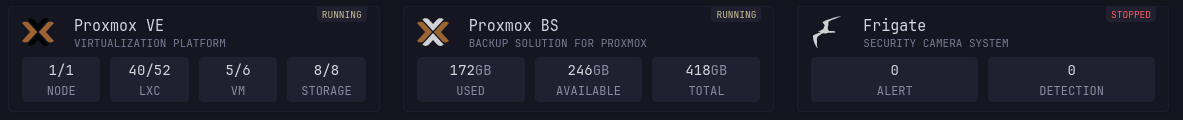
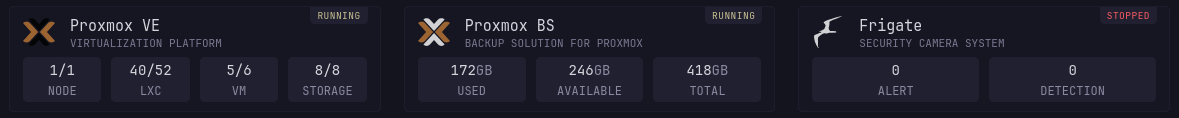
(stats-cards): improve readability of the status badge

diff --git a/styles/stat-grid-style.css b/styles/stat-grid-style.css
@@ -32,8 +32,9 @@
     top: 0;
     right: 12px;
     background: hsla(var(--bghs), calc(var(--scheme) (var(--scheme) var(--bgl) + 12%)), 0.4);
-    padding: 0 5px;
+    padding: 1px 7px;
     font-size: 0.95rem;
+    letter-spacing: 0.05em;
     border-radius: 0 0 5px 5px;
     user-select: none;
     -moz-user-select: none;
